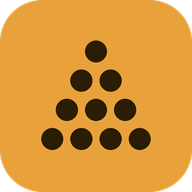
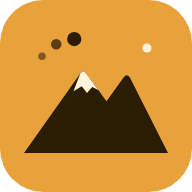
티끌모아 로고·파비콘·앱 설치 버튼
Claude-Session: https://claude.ai/code/session_01TnEd5ySyifsUZ2K7LbGLjp

diff --git a/tikkeul/sw.js b/tikkeul/sw.js
@@ -1,6 +1,6 @@
 /* 티끌모아 서비스워커: 화면 파일은 인터넷 우선, 끊기면 저장해 둔 것 사용. 깃허브 API(데이터)는 건드리지 않음 */
-const CACHE='tikkeul-v1';
-const SHELL=['./','./index.html','./style.css','./app.js','./manifest.webmanifest','./fonts/PretendardVariable.woff2','./icon-192.png','./favicon.svg'];
+const CACHE='tikkeul-v2';
+const SHELL=['./','./index.html','./style.css','./app.js','./manifest.webmanifest','./fonts/PretendardVariable.woff2','./icon-192.png','./favicon.svg','./logo-mark.svg','./logo.png'];
 self.addEventListener('install',e=>{e.waitUntil(caches.open(CACHE).then(c=>c.addAll(SHELL)).then(()=>self.skipWaiting()));});
 self.addEventListener('activate',e=>{e.waitUntil(caches.keys().then(ks=>Promise.all(ks.filter(k=>k.startsWith('tikkeul-')&&k!==CACHE).map(k=>caches.delete(k)))).then(()=>self.clients.claim()));});
 self.addEventListener('fetch',e=>{const req=e.request;if(req.method!=='GET')return;const u=new URL(req.url);

diff --git a/tikkeul/style.css b/tikkeul/style.css
@@ -386,3 +386,13 @@ textarea.in-t{min-height:130px;resize:vertical;font-size:14px}
 .howto{margin-top:18px;font-size:14px;color:var(--muted)}
 .howto summary{cursor:pointer;color:var(--accent-ink);font-weight:600}
 .howto ol{padding-left:20px;line-height:1.6}
+
+.brand h1{display:flex;align-items:center;gap:8px;color:var(--ink)}
+.brand h1 img{border-radius:8px}
+.inst{display:grid;grid-template-columns:56px 1fr auto;gap:12px;align-items:center}
+.inst img{border-radius:14px}
+.inst b{display:block;font-size:17px}
+.inst .btn{flex:none;padding:10px 18px}
+.setup-logo{text-align:center;margin:8px 0 4px}
+.setup-logo img{width:100%;max-width:300px;border-radius:14px}
+.steps{padding-left:22px;line-height:1.7;font-size:16px}
